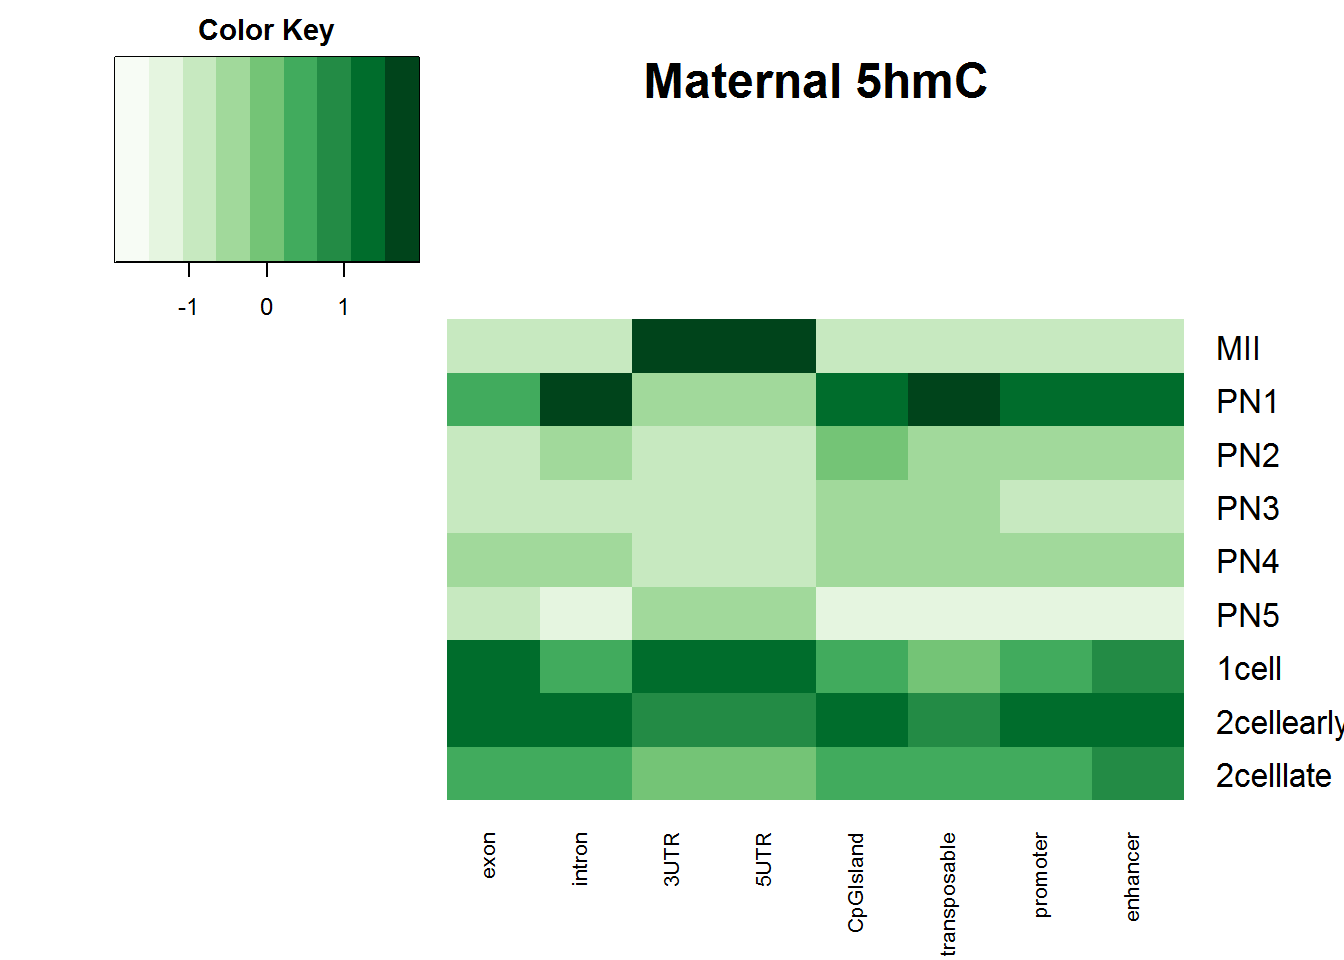
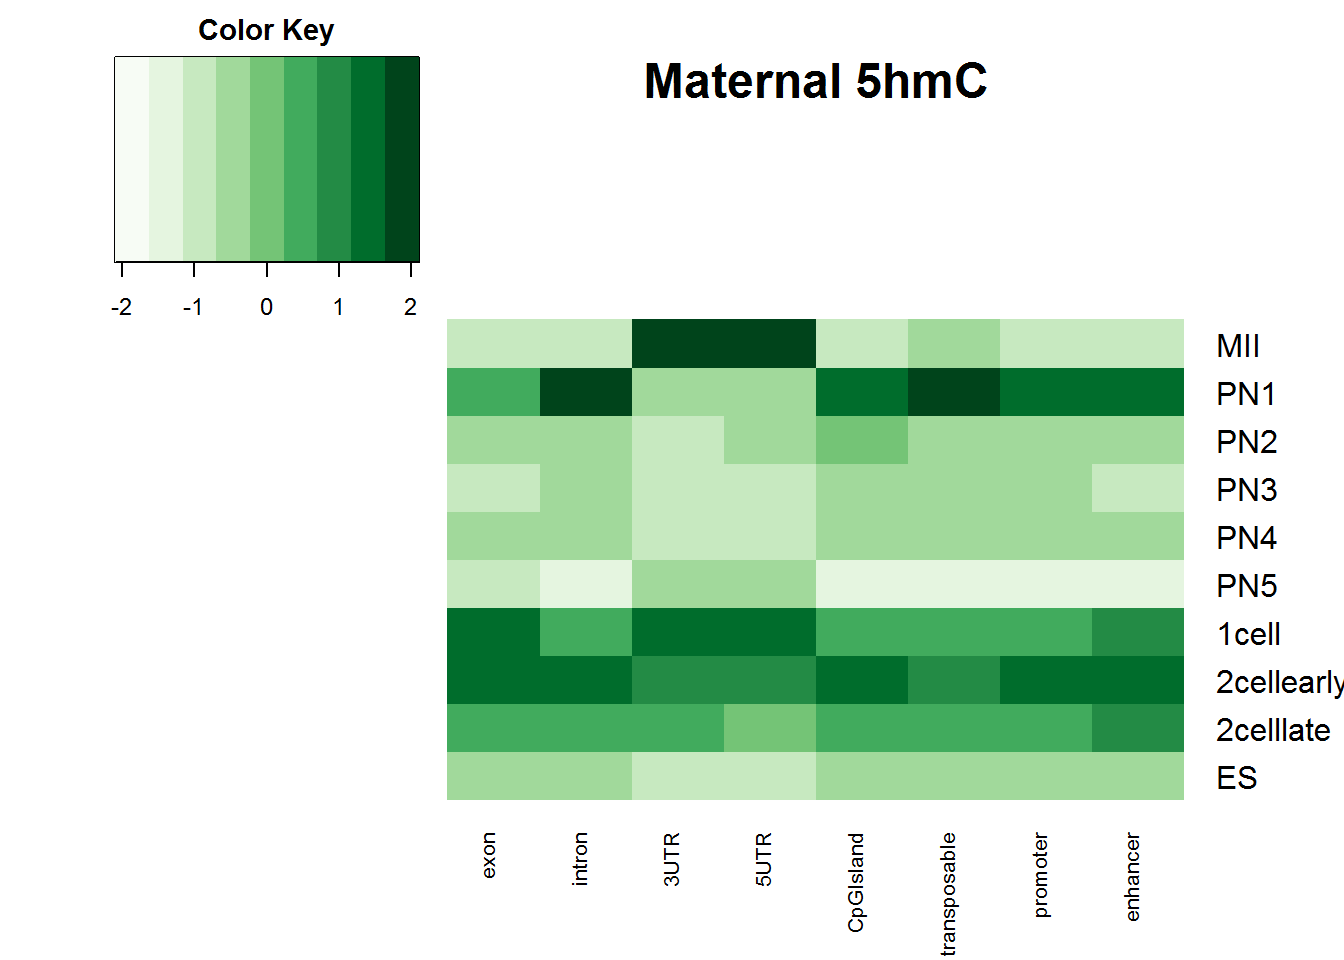
Mar92018

Changed region(s): [[0.3125, 0.3125, 1.0, 0.8438], [0.125, 0.3125, 0.1562, 0.3438]]

diff --git a/docs/Sample-with-spikein.html b/docs/Sample-with-spikein.html
@@ -317,10 +317,12 @@ shared across the workflowr files. -->
 <p><strong>Last updated:</strong> 2018-03-09</p>
 <!-- Insert the code version (Git commit SHA1) if Git repository exists and R
  package git2r is installed -->
-<p><strong>Code version:</strong> 28851b5</p>
+<p><strong>Code version:</strong> 237f8e6</p>
 <!-- Add your analysis here -->
+<p>All analysiz have been adjusted with spike in sample.</p>
 <div id="rep1-20180113" class="section level2">
 <h2>Rep1-20180113</h2>
+<p>In this batch, sperm fails.</p>
 <div id="paternal" class="section level3">
 <h3>Paternal</h3>
 <p><img src="figure/Sample-with-spikein.Rmd/unnamed-chunk-2-1.png" width="672" style="display: block; margin: auto;" /><img src="figure/Sample-with-spikein.Rmd/unnamed-chunk-2-2.png" width="672" style="display: block; margin: auto;" /><img src="figure/Sample-with-spikein.Rmd/unnamed-chunk-2-3.png" width="672" style="display: block; margin: auto;" /></p>
@@ -331,10 +333,6 @@ shared across the workflowr files. -->
 </div>
 <div id="section" class="section level3">
 <h3></h3>
-<pre class="r"><code>gene.body.reads=read.table(&quot;D:\\ResearchWork\\StatisticalGenetics\\JumpSeq\\20180113\\gene.body.reads&quot;, header=F)
-gene.exon.reads=read.table(&quot;D:\\ResearchWork\\StatisticalGenetics\\JumpSeq\\20180113\\gene.exon.reads&quot;, header=F)
-gene.promoter.reads=read.table(&quot;D:\\ResearchWork\\StatisticalGenetics\\JumpSeq\\20180113\\gene.promoter.reads&quot;, header=F)
-spikein.reads=read.table(&quot;D:\\ResearchWork\\StatisticalGenetics\\JumpSeq\\20180113\\spike.in.reads&quot;, header=F)</code></pre>
 </div>
 </div>
 <div id="rep-2-20180228" class="section level2">
